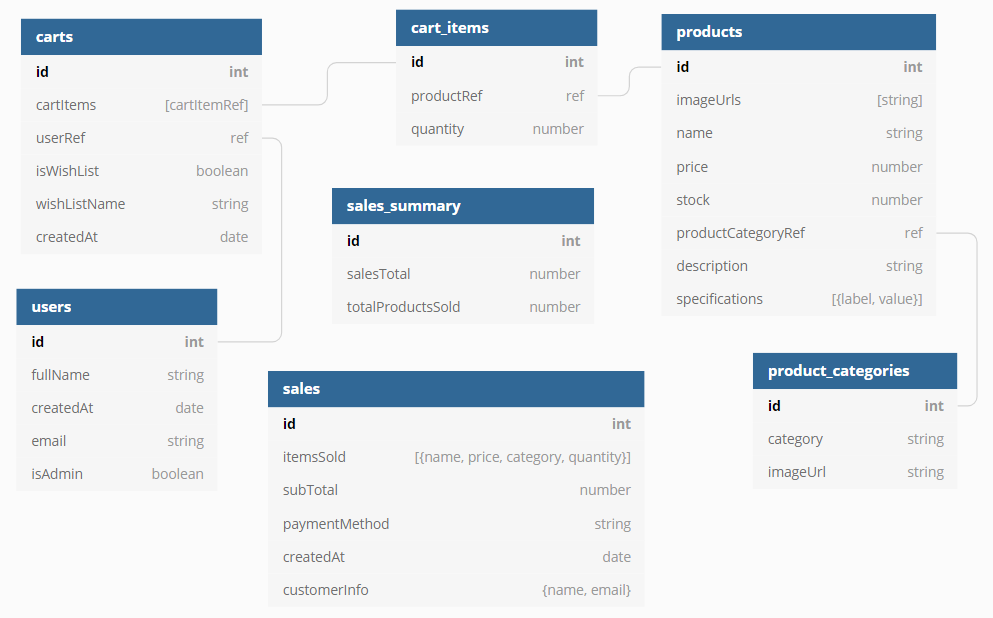
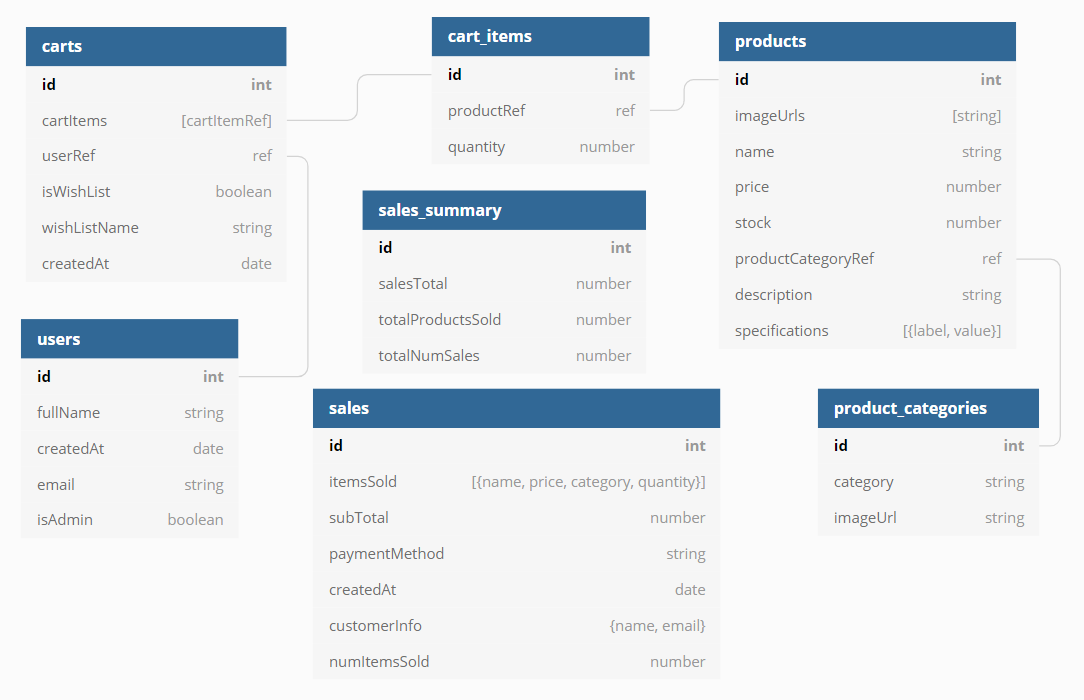
Adds new numItemsSold field to sales document. Adds new totalNumSales field to sales_summary document. Changes styling for sales summary UI. Fixes cloud function logic in calculating totalProductsSold.

diff --git a/client/src/components/dashboard-sales/dashboard-sales.component.jsx b/client/src/components/dashboard-sales/dashboard-sales.component.jsx
@@ -1,8 +1,9 @@
 import React, { useEffect } from "react";
-import { Sales, Subtitle } from "./dashboard-sales.styles";
+import { Sales } from "./dashboard-sales.styles";
 import { DashboardContentTitle } from "../../pages/dashboard/dashboard.styles";
 
 import Skeleton from "../skeleton/skeleton.component";
+import Banner from "../banner/banner.component";
 
 import { connect } from "react-redux";
 import { startSalesSummaryFetch } from "../../redux/sale/sale.actions";
@@ -16,6 +17,7 @@ const DashboardSales = ({
   salesSummary,
   fetchSalesSummary
 }) => {
+  const { salesTotal, totalProductsSold, totalNumSales } = salesSummary;
   useEffect(() => {
     fetchSalesSummary();
   }, [fetchSalesSummary]);
@@ -24,13 +26,12 @@ const DashboardSales = ({
     <>
       <DashboardContentTitle>Sales</DashboardContentTitle>
       {isFetchingSalesSummary ? (
-        <Skeleton height="30px" margin="0 0 12px" count={2} width="40%" />
+        <Skeleton height="30px" margin="0 0 12px" count={3} />
       ) : (
         <>
-          <Subtitle>Total Profit: ${salesSummary.salesTotal}</Subtitle>
-          <Subtitle>
-            Total Products Sold: {salesSummary.totalProductsSold}
-          </Subtitle>
+          <Banner label="Total Sales" value={totalNumSales} />
+          <Banner label="Total Revenue" value={`$${salesTotal}`} />
+          <Banner label="Total Products Sold" value={totalProductsSold} />
         </>
       )}
       <Sales />

diff --git a/cloud_functions/functions/index.js b/cloud_functions/functions/index.js
@@ -18,20 +18,25 @@ const updateSaleSummary = async (updatedSummaryInfo, saleSummaryDocRef) =>
 exports.onNewSaleCreated = functions.firestore
   .document("/sales/{id}")
   .onCreate(async (snap, context) => {
-    const { subTotal, itemsSold } = snap.data();
-    const numProductsSold = itemsSold.length;
+    const { subTotal, numItemsSold } = snap.data();
     const previousSaleSummaryDoc = await getPreviousSaleSummaryDoc();
     if (!previousSaleSummaryDoc) {
       return await createNewSaleSummary({
         salesTotal: subTotal,
-        totalProductsSold: numProductsSold
+        totalProductsSold: numItemsSold,
+        totalNumSales: 1
       });
     }
-    const { salesTotal, totalProductsSold } = previousSaleSummaryDoc.data();
+    const {
+      salesTotal,
+      totalProductsSold,
+      totalNumSales
+    } = previousSaleSummaryDoc.data();
     return await updateSaleSummary(
       {
         salesTotal: salesTotal + subTotal,
-        totalProductsSold: totalProductsSold + numProductsSold
+        totalProductsSold: totalProductsSold + numItemsSold,
+        totalNumSales: totalNumSales + 1
       },
       previousSaleSummaryDoc.ref
     );

diff --git a/client/src/redux/checkout/checkout.sagas.js b/client/src/redux/checkout/checkout.sagas.js
@@ -10,7 +10,8 @@ import { createNewSale } from "../../firebase-utils/firebase.checkout_utils";
 import {
   selectShoppingCart,
   selectCartTotal,
-  selectCartId
+  selectCartId,
+  selectNumCartItems
 } from "../cart/cart.selectors";
 import { selectCurrentUser } from "../user/user.selectors";
 import axios from "axios";
@@ -93,6 +94,7 @@ function* handleCheckoutSuccess({
   try {
     const shoppingCart = yield select(selectShoppingCart);
     const shoppingCartSubtotal = yield select(selectCartTotal);
+    const numItemsSold = yield select(selectNumCartItems);
     const currentUser = yield select(selectCurrentUser);
     const cartId = yield select(selectCartId);
     yield put(addSuccessNotification(notificationTitle, notificationMsg));
@@ -104,7 +106,8 @@ function* handleCheckoutSuccess({
       shoppingCartSubtotal,
       customerInfo,
       !!currentUser,
-      cartId
+      cartId,
+      numItemsSold
     );
   } catch (err) {}
 }

diff --git a/client/src/components/sale-entry/sale-entry.component.jsx b/client/src/components/sale-entry/sale-entry.component.jsx
@@ -18,6 +18,7 @@ const SaleEntry = ({ saleInfo, intersectionCb }) => {
     subTotal,
     paymentMethod,
     createdAt,
+    numItemsSold,
     customerInfo: { name, email }
   } = saleInfo;
 
@@ -44,7 +45,7 @@ const SaleEntry = ({ saleInfo, intersectionCb }) => {
         <PaymentMethod>
           <i className="fas fa-money-bill" /> Payment Method: {paymentMethod}
         </PaymentMethod>
-        <Collapse title="Products Sold">
+        <Collapse title={`Products Sold (${numItemsSold})`}>
           <Card>
             {(itemsSold || []).map((item, index) => (
               <ProductSoldSummary key={index} product={item} />

diff --git a/client/src/firebase-utils/firebase.checkout_utils.js b/client/src/firebase-utils/firebase.checkout_utils.js
@@ -12,7 +12,8 @@ export const createNewSale = async (
   subTotal,
   customerInfo,
   isUserLoggedIn,
-  cartId
+  cartId,
+  numItemsSold
 ) => {
   if (isUserLoggedIn) {
     await deleteAllCartItemDocsInCart(shoppingCart);
@@ -25,7 +26,8 @@ export const createNewSale = async (
     subTotal,
     paymentMethod,
     createdAt: new Date(),
-    customerInfo: { name, email }
+    customerInfo: { name, email },
+    numItemsSold
   });
   return newSaleRef;
 };

diff --git a/client/src/components/dashboard-sales/dashboard-sales.styles.jsx b/client/src/components/dashboard-sales/dashboard-sales.styles.jsx
@@ -2,12 +2,5 @@ import styled from "styled-components";
 import SalesList from "../sales-list/sales-list.component";
 
 export const Sales = styled(SalesList)`
-  margin-top: 30px;
-`;
-
-export const Subtitle = styled.span`
-  display: block;
-  font-weight: bold;
-  letter-spacing: 0.2rem;
-  margin: 0 0 6px;
+  margin-top: 35px;
 `;
